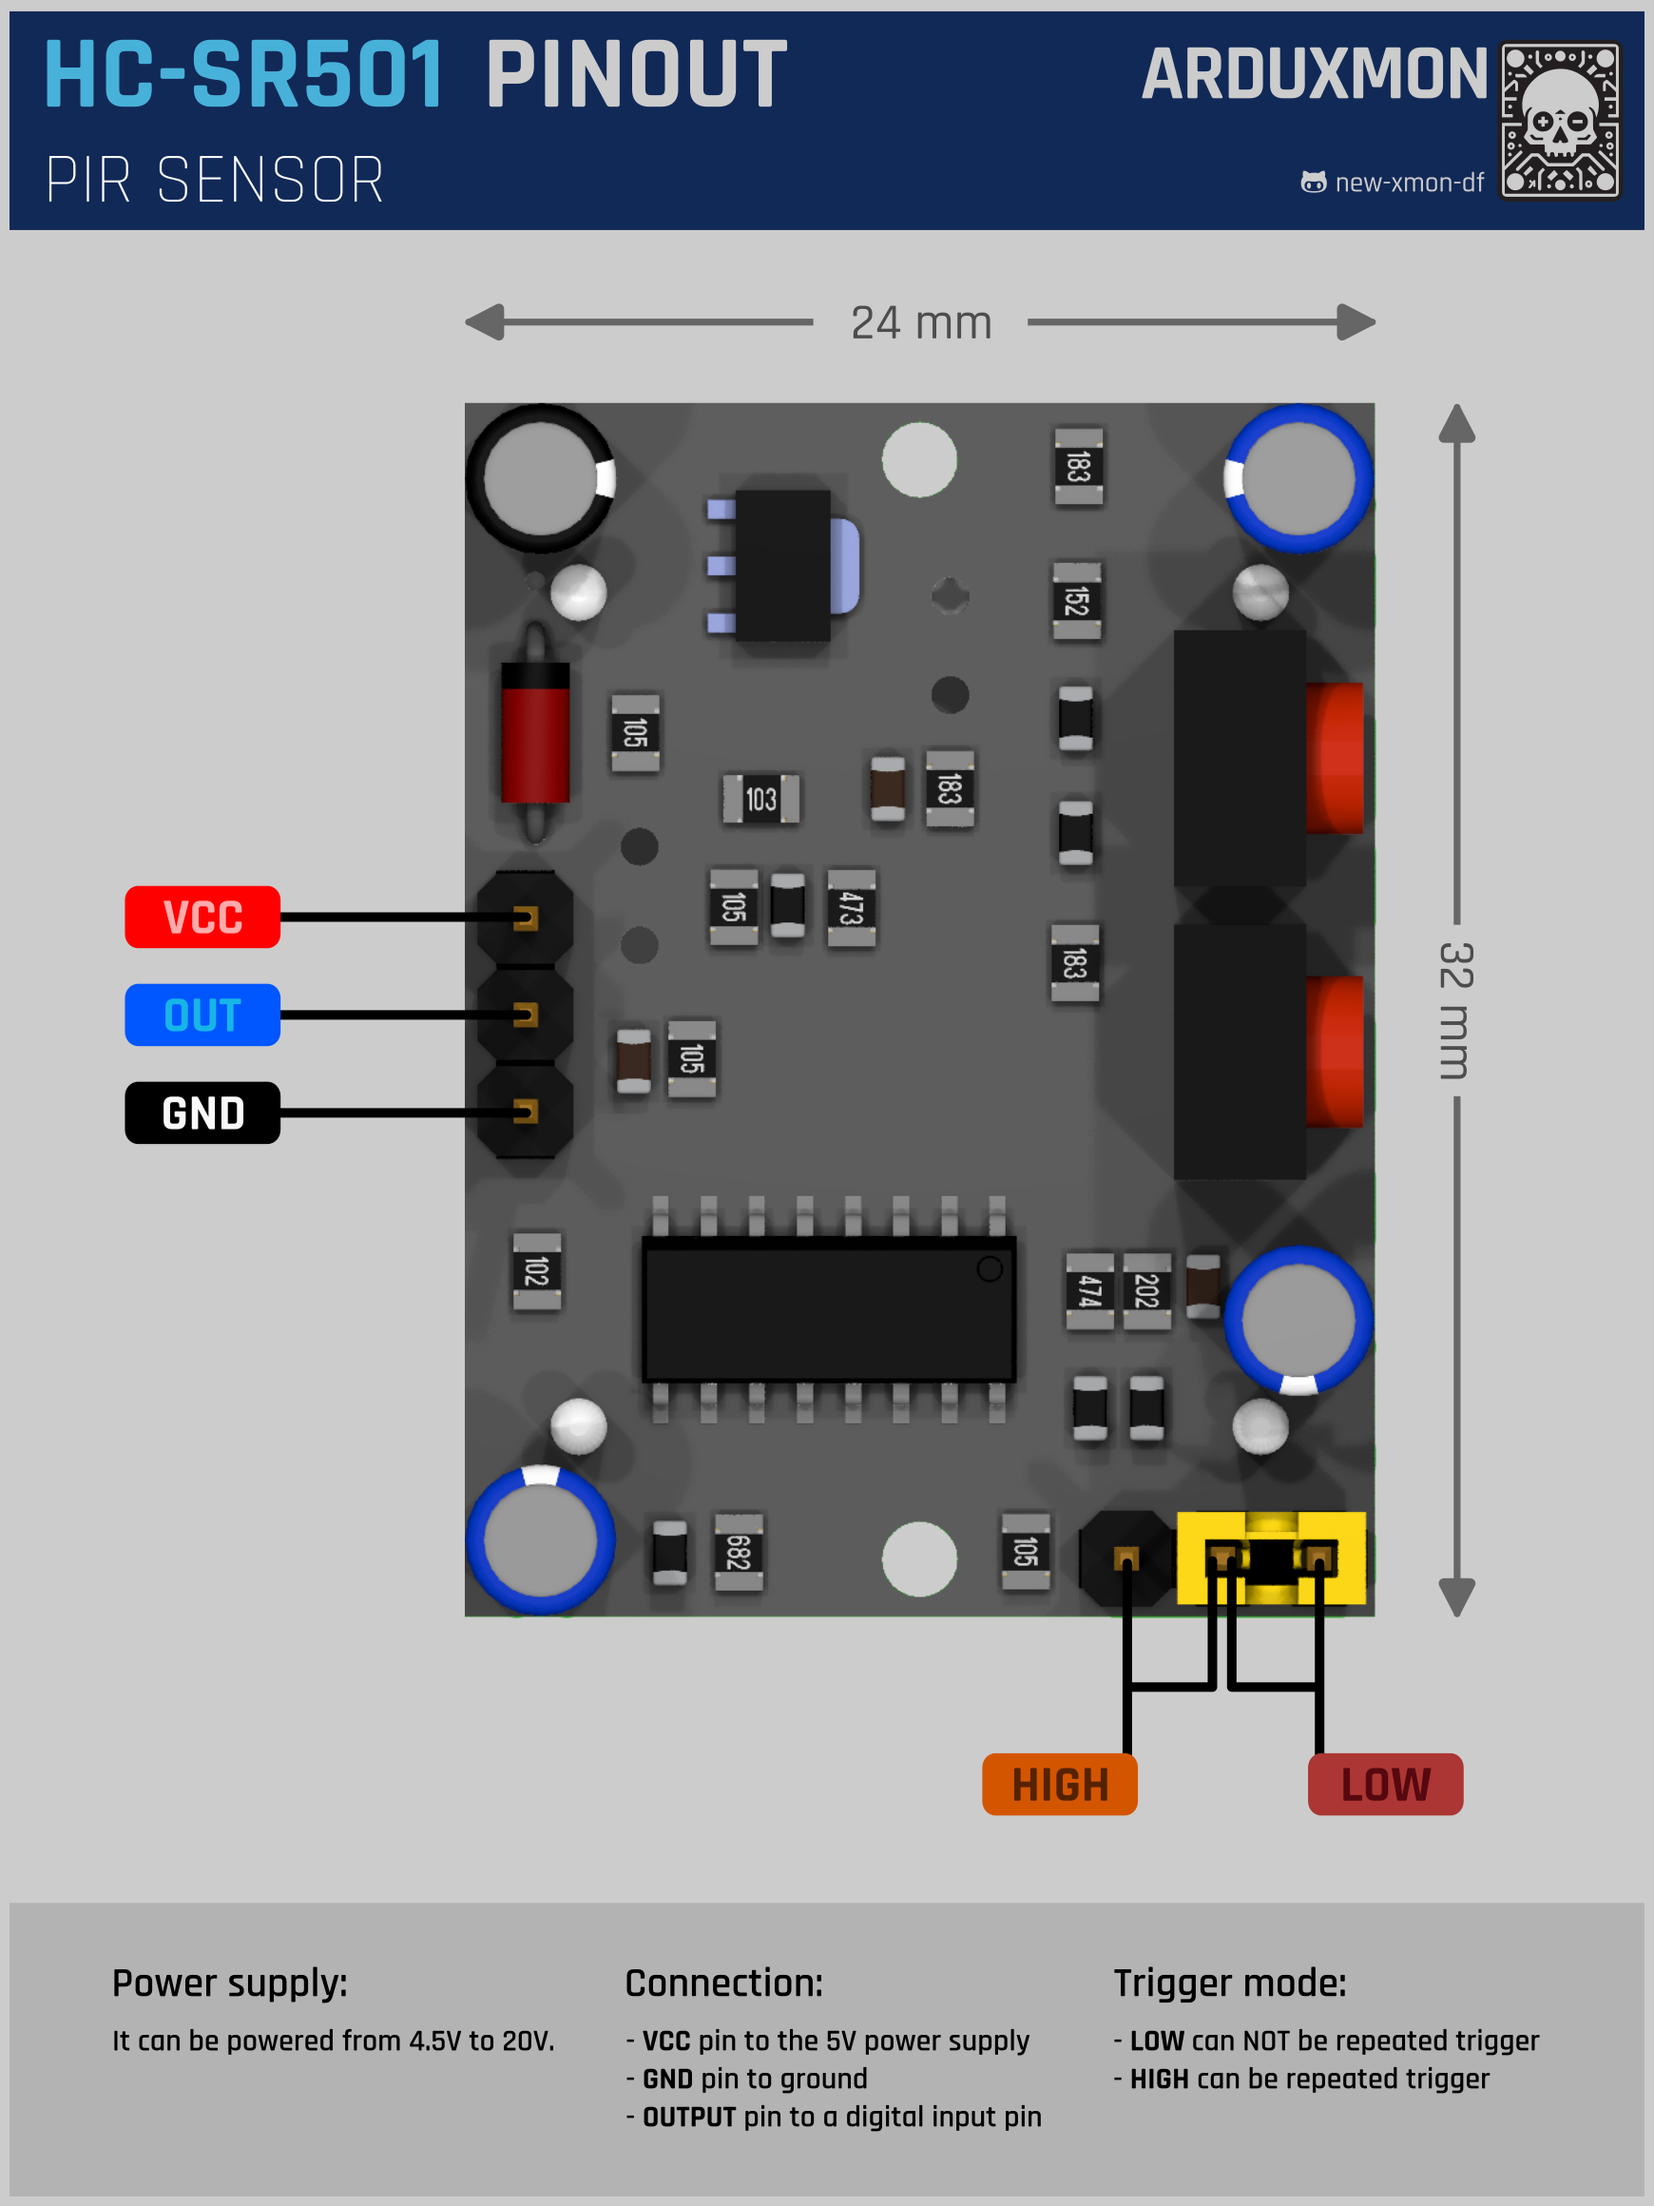
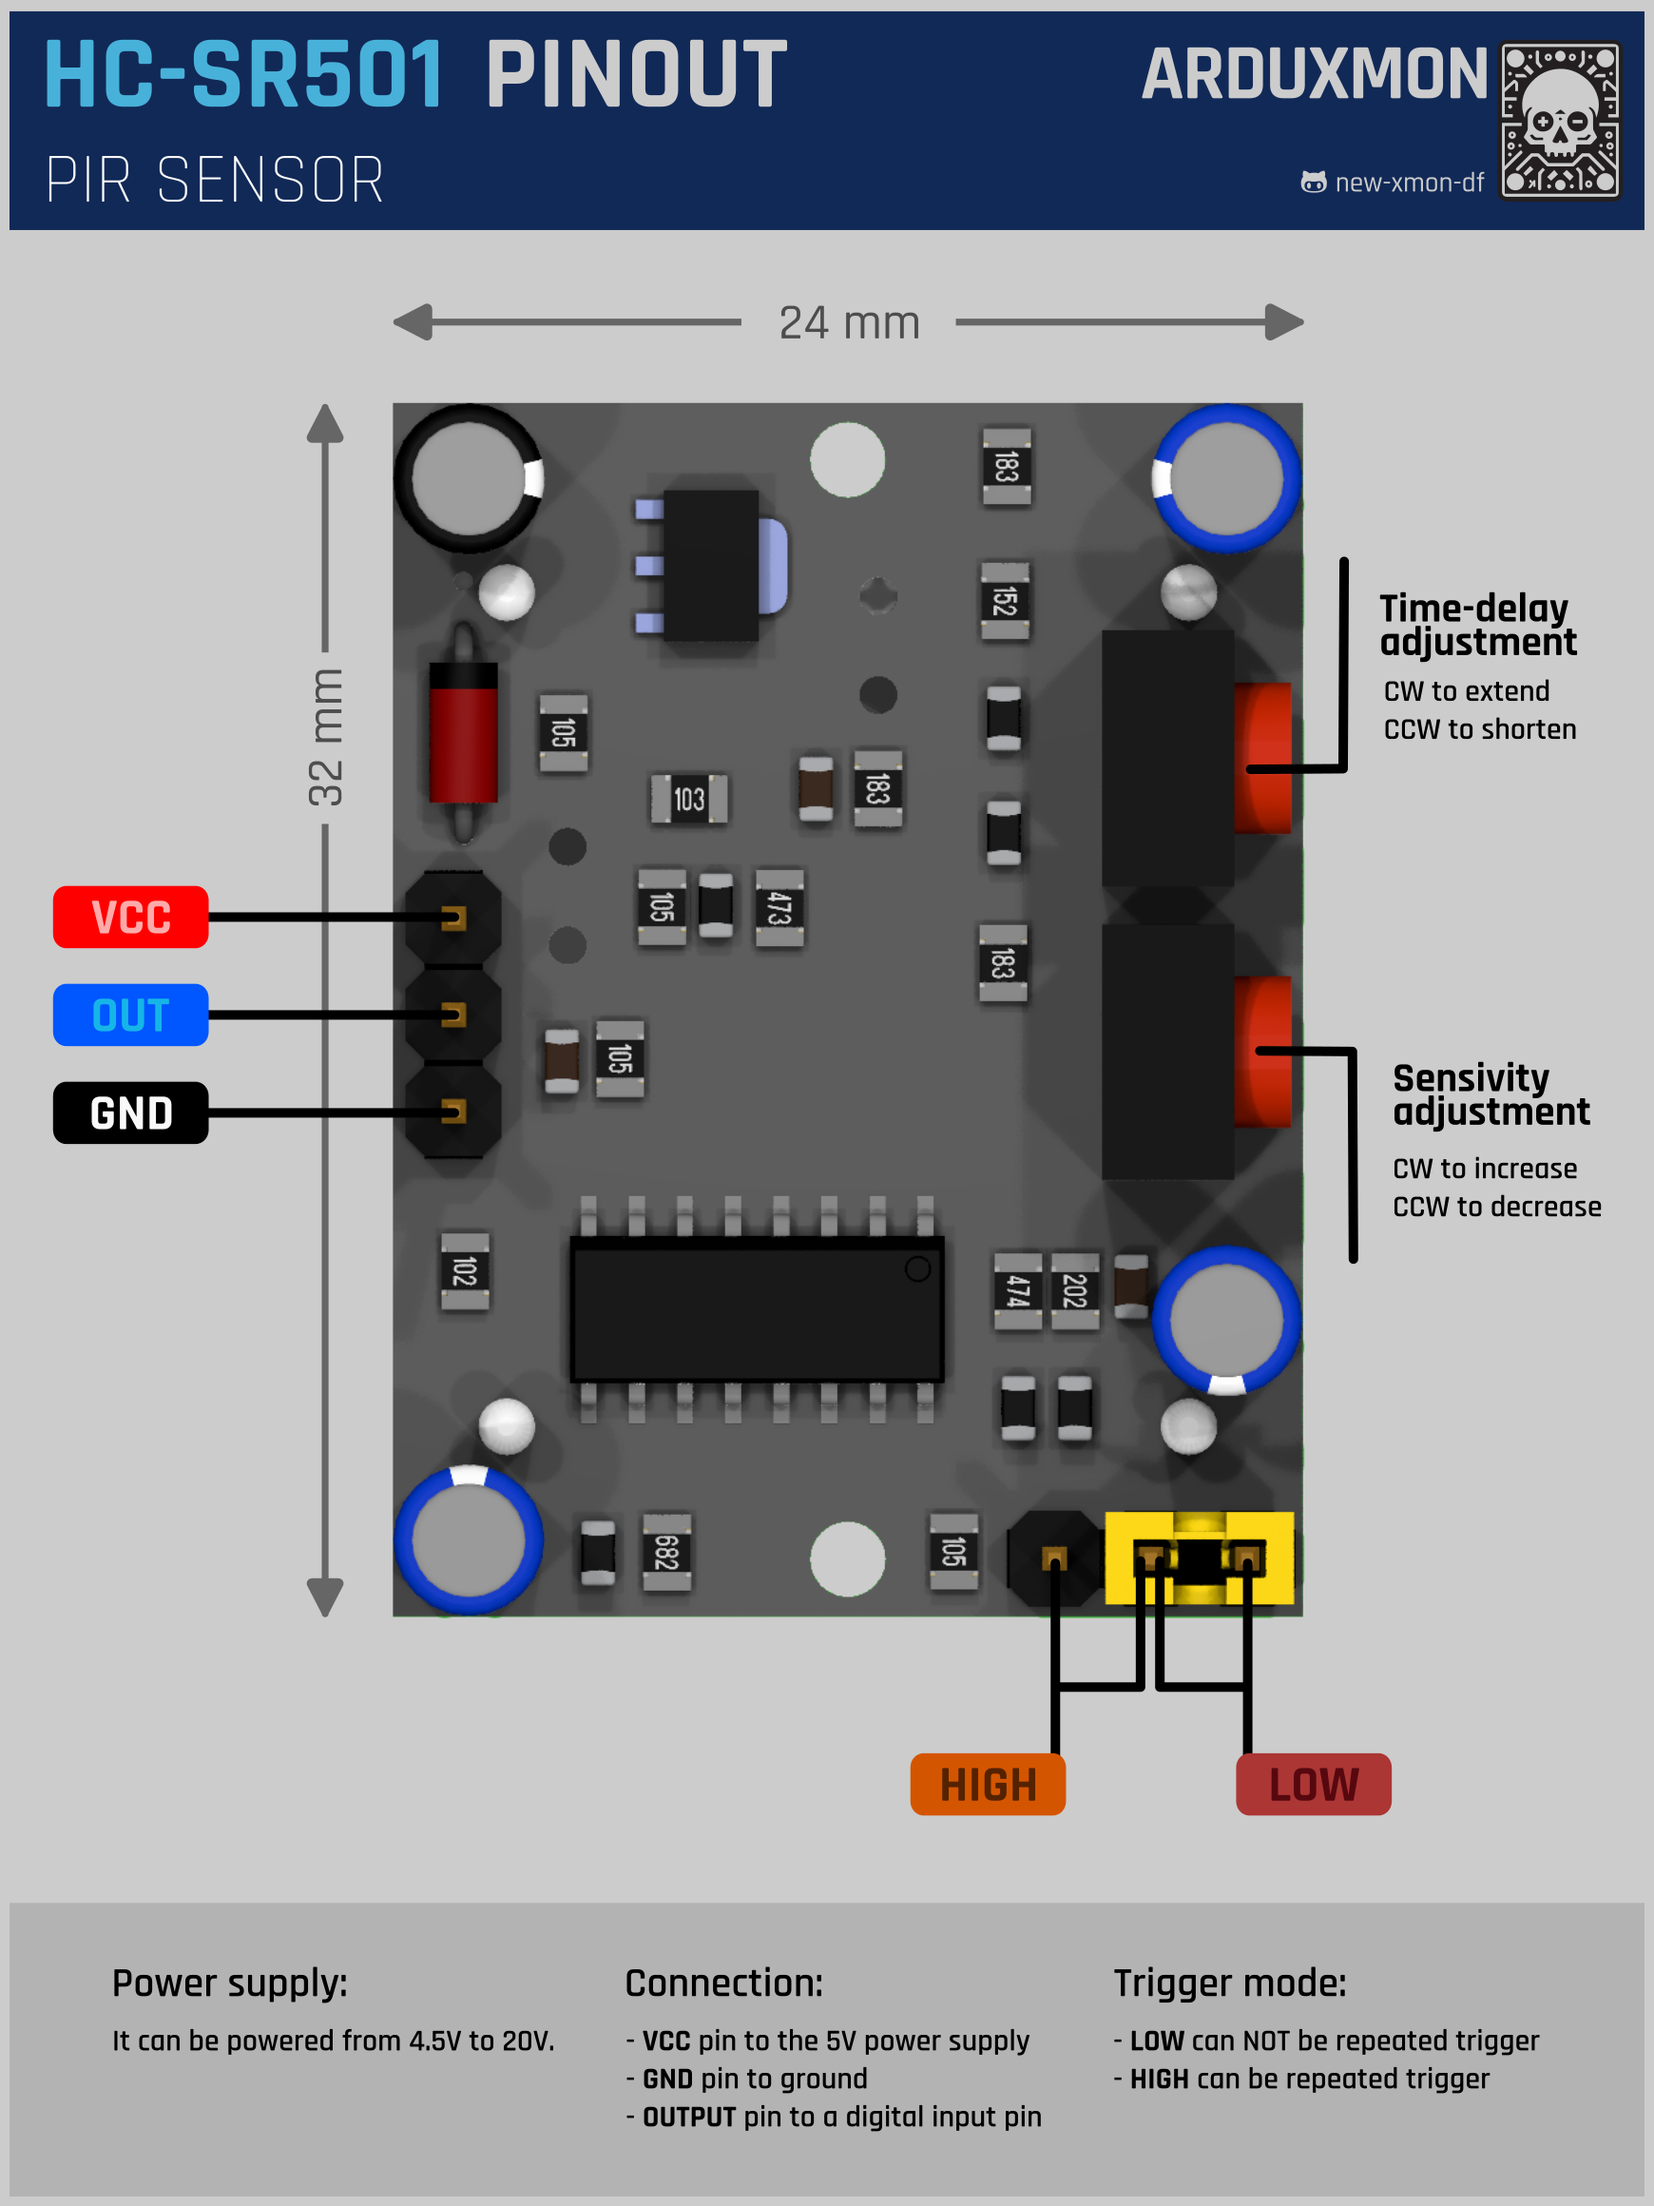
update SR501

Changed region(s): [[0.031, 0.1241, 0.9621, 0.8379], [0.4655, 0.1241, 0.6207, 0.1552]]

diff --git a/Components/Sensors/Presence/HC-SR501/README.md b/Components/Sensors/Presence/HC-SR501/README.md
@@ -4,9 +4,13 @@
 [<img src="pictures/HC-SR501-back.jpg" width="300" alt="Back"/>](pictures/HC-SR501-back.jpg)
 
 ## Product Description
-The HC-SR501 PIR Motion Detector is based on infrared technology, featuring an automatic control module designed with a high-sensitivity LHI778 probe imported from Germany. It operates at ultra-low voltage and is widely used in various auto-sensing electrical equipment, especially in battery-powered automatic controlled products.
+
+The HC-SR501 PIR Motion Detector is based on infrared technology, featuring an automatic control module designed with a
+high-sensitivity LHI778 probe imported from Germany. It operates at ultra-low voltage and is widely used in various
+auto-sensing electrical equipment, especially in battery-powered automatic controlled products.
 
 ## Specifications
+
 - **Voltage:** 5V – 20V
 - **Power Consumption:** 65mA
 - **TTL Output:** 3.3V, 0V
@@ -18,9 +22,12 @@ The HC-SR501 PIR Motion Detector is based on infrared technology, featuring an a
 - **Dimension:** 32*24 mm, distance between screws 28mm, M2, Lens diameter: 23mm
 
 ## Application
-Automatically senses motion for various applications including floor, bathroom, basement, porch, warehouse, garage, ventilator, alarm, etc.
+
+Automatically senses motion for various applications including floor, bathroom, basement, porch, warehouse, garage,
+ventilator, alarm, etc.
 
 ## Features
+
 - Automatic induction with adjustable delay.
 - Photosensitive control (optional).
 - Temperature compensation for performance adjustment.
@@ -30,12 +37,15 @@ Automatically senses motion for various applications including floor, bathroom, 
 - High output signal compatibility with various circuits.
 
 ## Pinout
+
 [<img src="schemas/HC-SR501-Pinout.png" width="500" alt="Pinout"/>](schemas/HC-SR501-Pinout.png)
 
 ## Adjustment
+
 - Distance and delay adjustment through potentiometers.
 
 ## Instructions for Use
+
 - Initialization period of about a minute after power-up.
 - Avoid direct exposure to lighting sources and wind to prevent interference.
 - Dual-probe design for sensitivity to human movement.
@@ -43,17 +53,38 @@ Automatically senses motion for various applications including floor, bathroom, 
 - Circular lens design for increased induction range.
 
 ## Application Scope
+
 - Security products
 - Body induction toys
 - Body induction lamps
 - Industrial automation control, etc.
 
-The HC-SR501 PIR Motion Detector is widely utilized in enterprises, hotels, stores, corridors, and other sensitive areas for automatic light control, lighting, and alarm systems.
+The HC-SR501 PIR Motion Detector is widely utilized in enterprises, hotels, stores, corridors, and other sensitive areas
+for automatic light control, lighting, and alarm systems.
 
+## Sensitivity Adjustment
+
+The PIR sensor features a potentiometer at the back to adjust sensitivity.
+
+This potentiometer sets the maximum detection range. Sensitivity can be adjusted within a range of approximately 3
+meters to 7 meters (9 to 21 feet). However, the layout of your room may affect the actual range you achieve. Turning the
+potentiometer clockwise will increase sensitivity and thus the range, while turning it counterclockwise will decrease
+sensitivity.
+
+## Time Delay Adjustment
+
+There's another potentiometer at the back of the PIR sensor to adjust time delay.
+
+This potentiometer sets how long the output will remain HIGH after motion is detected. It can be adjusted from 1 second
+to approximately 3 minutes. Turning the potentiometer clockwise increases the delay, whereas turning it counterclockwise
+decreases the delay.
 
 ## DOWNLOAD FILES
+
 Here I share the CAD program files.
+
 - [**KICAD**](downloads/KICAD-HC-SR501.zip): Files for KiCad 6, includes symbol, footprint and 3D.
 
 ## Documentation Links
+
 - [Datasheet](pdf/HC-SR501-datasheet.pdf) - [ES](pdf/HC-SR501-datasheet-ES.pdf)
